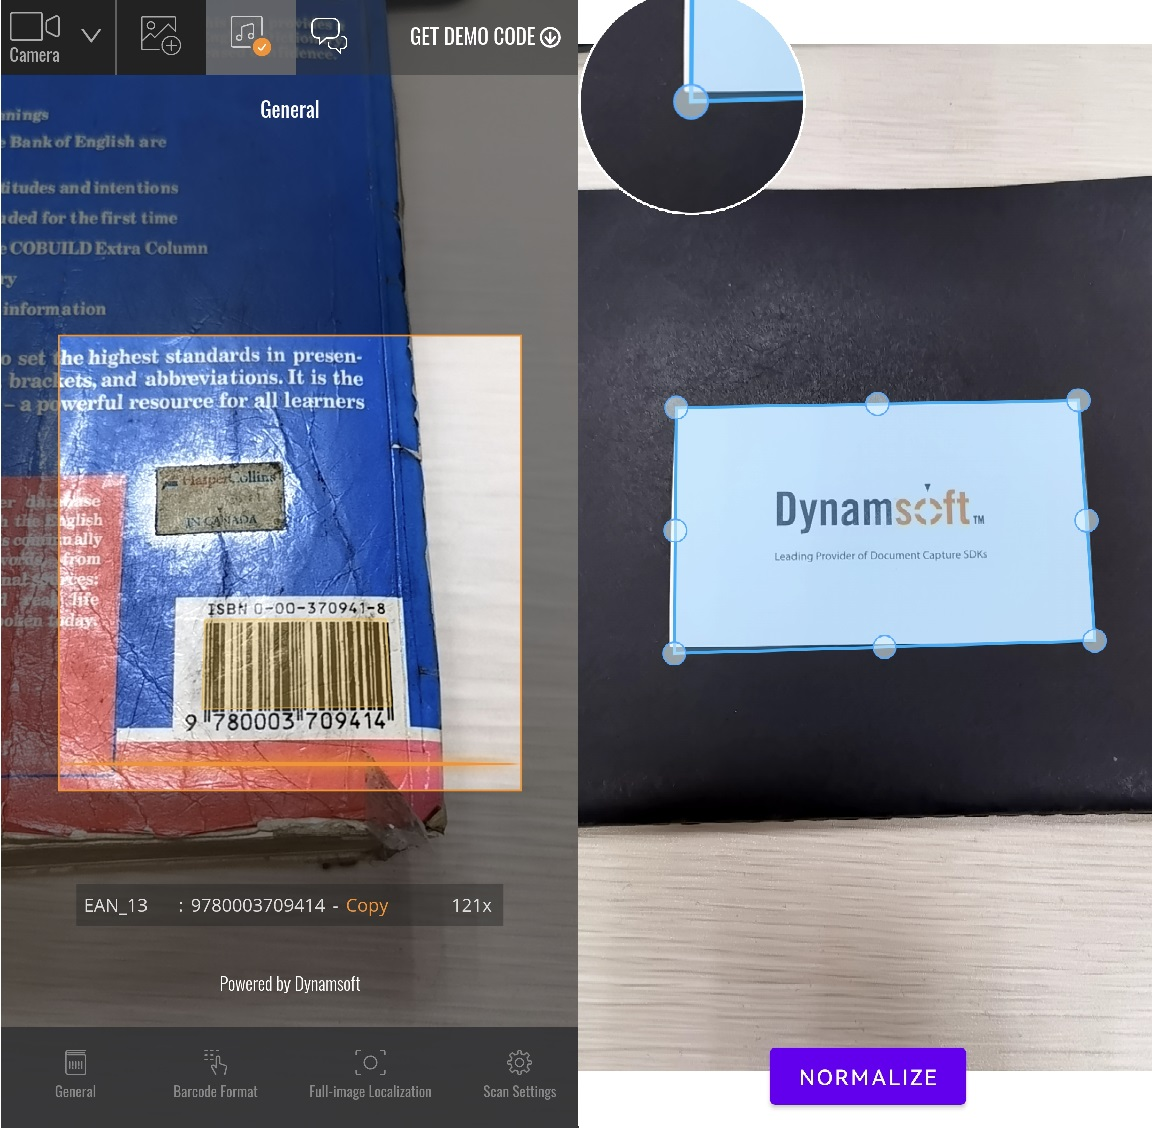
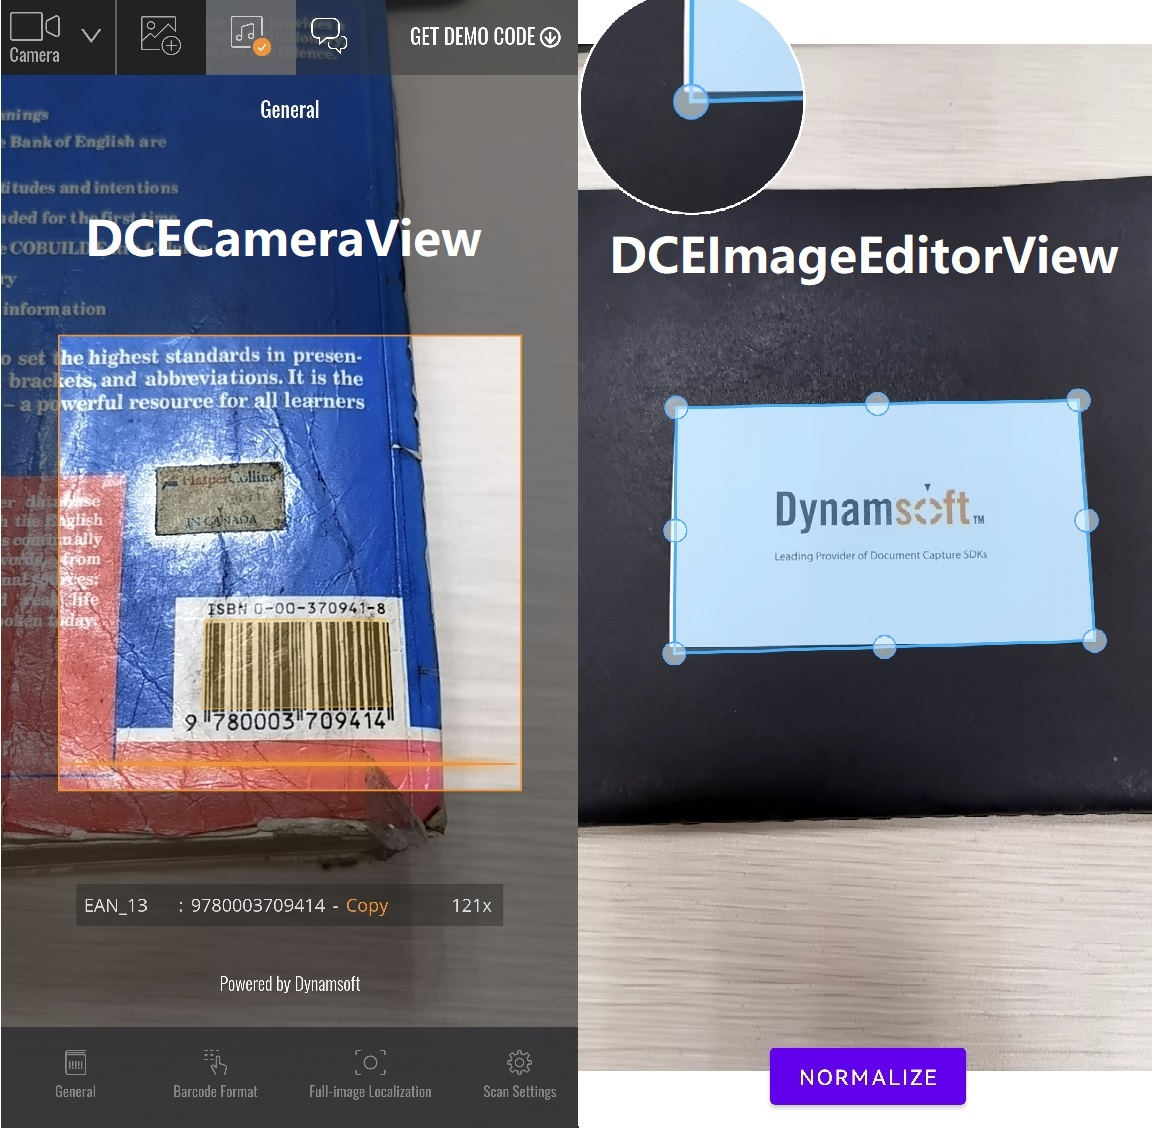
Updating introduction

Changed region(s): [[0.0625, 0.1862, 0.4062, 0.2482], [0.5312, 0.1862, 0.9688, 0.2482]]

diff --git a/introduction/index.md b/introduction/index.md
@@ -107,6 +107,8 @@ Bounded up with camera performance, it is always a huge challenge for camera-rel
 | ---------- | ----------- |
 | `CameraEnhancer` | The main class that contains all camera control APIs. |
 
+Camera Enhancer is the class that integrate regularcamera control APIs. You can apply basic camera configurations and also enable advanced features via CameraEnhancer class. While `CameraEnhancer` class taking control of the camera, `DCECameraView` is the class that responsible for displaying the video streaming on the UI when the camera is opened.
+
 **UI Classes**
 
 | Class Name | Description |
@@ -119,7 +121,9 @@ Bounded up with camera performance, it is always a huge challenge for camera-rel
     <p>DCECameraView & DCEImageEditorView</p>
 </div>
 
-DCECameraView and DCEImageEditorView are UI view classes that display and administrate video, image and other UI elements. The UI element on the view can visualize the output of other dynamsoft products, which enhance the interaction of a scanner app.
+`DCECameraView` and `DCEImageEditorView` are UI view classes that display and administrate video, image and other UI elements. The UI element on the view can visualize the output of other dynamsoft products, which enhance the interaction of a scanner app.
+
+DCECameraView is the view of video streaming. It reflects the changes on the camera.
 
 **Auxiliary Classes**
 
@@ -141,5 +145,3 @@ Dynamsoft Camera Enhancer is now available for the following programming languag
 - **JavaScript** for Browsers (only limited features at present)
 - **Java** for Android
 - **Objective-C** & **Swift** for iOS
-
-[Get started with Dynamsoft Camera Enhancer >](../programming/index.md)
